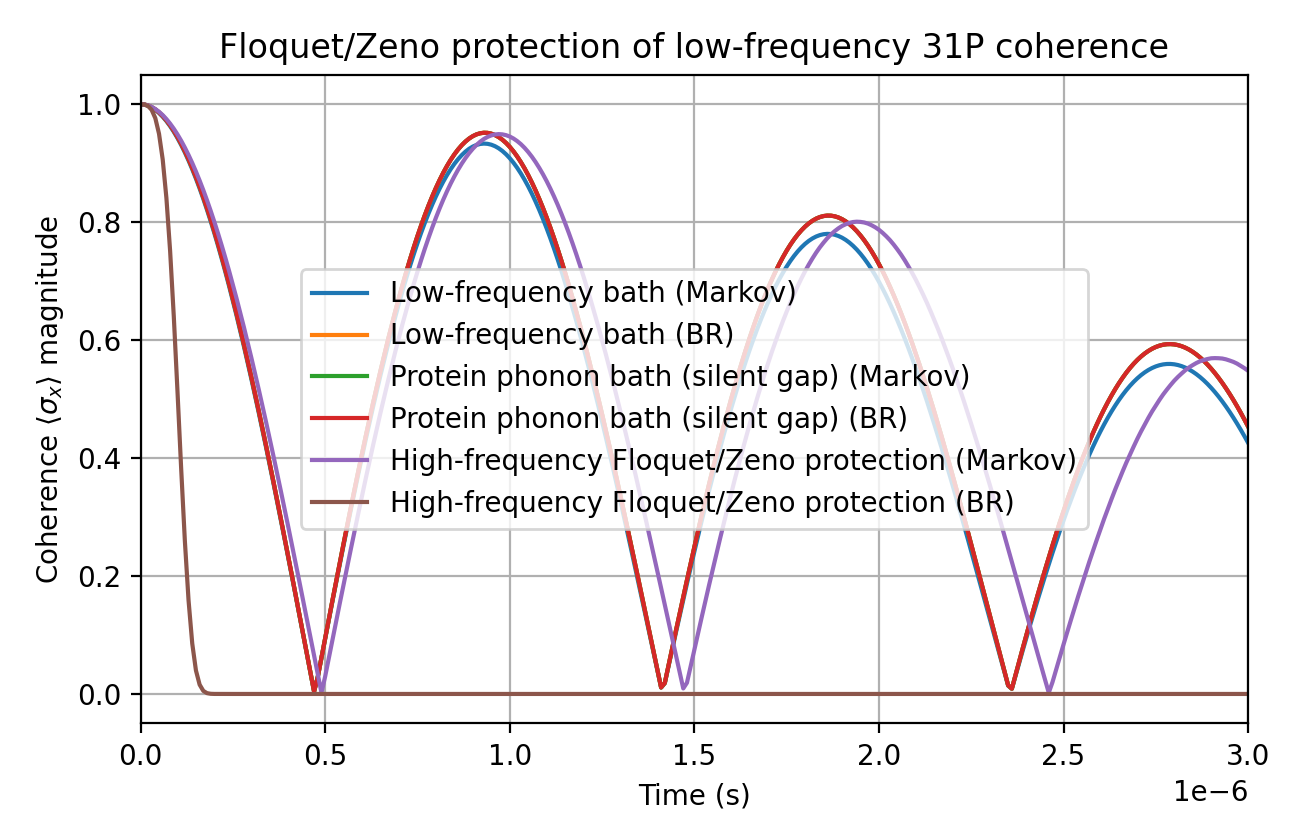
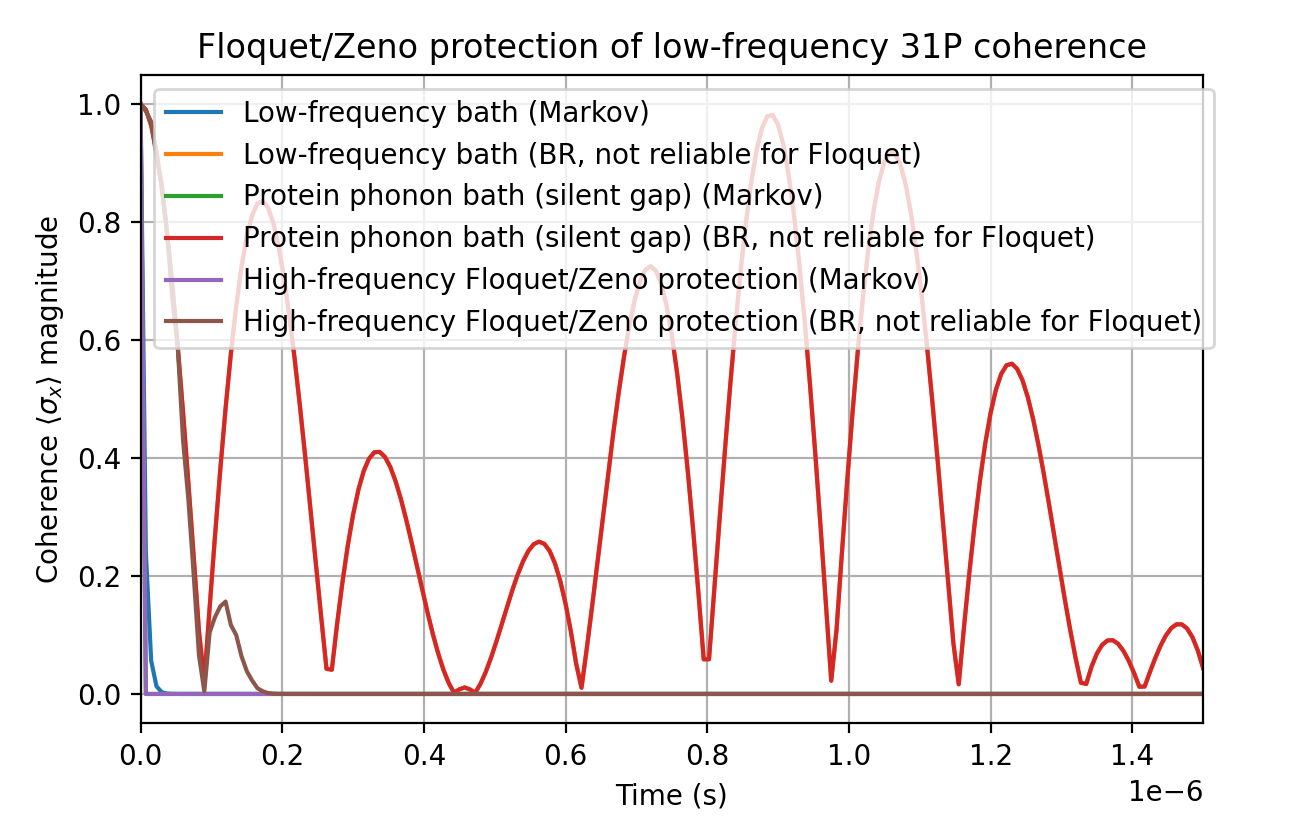
update 2

diff --git a/simulate_snn_quantum_bridge_simple.py b/simulate_snn_quantum_bridge_simple.py
@@ -111,68 +111,116 @@ def simulate_snn_with_quantum_influence(scenario_name, coherence_tau):
 
     return np.array(spike_times), np.array(spike_neurons), t
 
+def compute_avalanches(spike_times, duration, bin_size=0.01):
+    """Compute avalanche sizes, durations, and effective branching ratio."""
+    bins = np.arange(0, duration + bin_size, bin_size)
+    counts, _ = np.histogram(spike_times, bins=bins)
+    active = counts > 0
+
+    avalanches = []
+    durations = []
+    sigma_events = []
+    start = None
+
+    for i, active_bin in enumerate(active):
+        if active_bin and start is None:
+            start = i
+        elif not active_bin and start is not None:
+            avalanche = counts[start:i]
+            if avalanche.sum() > 0:
+                avalanches.append(avalanche.sum())
+                durations.append((i - start) * bin_size)
+                for j in range(len(avalanche) - 1):
+                    if avalanche[j] > 0:
+                        sigma_events.append(avalanche[j + 1] / avalanche[j])
+            start = None
+
+    if start is not None:
+        avalanche = counts[start:]
+        if avalanche.sum() > 0:
+            avalanches.append(avalanche.sum())
+            durations.append((len(active) - start) * bin_size)
+            for j in range(len(avalanche) - 1):
+                if avalanche[j] > 0:
+                    sigma_events.append(avalanche[j + 1] / avalanche[j])
+
+    sigma = np.nan if len(sigma_events) == 0 else np.mean(sigma_events)
+    return counts, avalanches, durations, sigma
+
 # --- Run simulations for each quantum scenario ---
 results = {}
 for scenario, tau in coherence_times.items():
     spike_times, spike_neurons, t = simulate_snn_with_quantum_influence(scenario, tau)
+    counts, avalanches, durations, sigma = compute_avalanches(spike_times, duration)
     results[scenario] = {
         'spike_times': spike_times,
         'spike_neurons': spike_neurons,
         't': t,
-        'tau': tau
+        'tau': tau,
+        'counts': counts,
+        'avalanches': avalanches,
+        'durations': durations,
+        'sigma': sigma,
     }
 
 # --- Plotting ---
-fig, axes = plt.subplots(2, 2, figsize=(12, 8))
+fig, axes = plt.subplots(3, 1, figsize=(10, 12), sharex=True)
 
-# Plot 1: Raster plots
+# Plot 1: Raster plots (reference only)
 for i, (scenario, data) in enumerate(results.items()):
-    ax = axes[0, i] if i < 2 else axes[1, 0] if i == 2 else axes[1, 1]
+    ax = axes[i]
     if len(data['spike_times']) > 0:
         ax.scatter(data['spike_times'], data['spike_neurons'], s=1, c='k')
-    ax.set_xlabel('Time (s)')
     ax.set_ylabel('Neuron index')
-    ax.set_title(f'{scenario}\n(τ = {data["tau"]:.1e} s)')
+    ax.set_title(f'{scenario} (τ = {data["tau"]:.1e} s)')
     ax.set_xlim(0, duration)
     ax.set_ylim(0, N_neurons)
-
-# Plot 2: Firing rates
-ax = axes[1, 1]
-for scenario, data in results.items():
-    if len(data['spike_times']) > 0:
-        # Calculate firing rate over time
-        bin_size = 0.1  # 100ms bins
-        bins = np.arange(0, duration + bin_size, bin_size)
-        rates, _ = np.histogram(data['spike_times'], bins=bins)
-        rates = rates / (bin_size * N_neurons)  # Hz per neuron
-        bin_centers = bins[:-1] + bin_size/2
-        ax.plot(bin_centers, rates, label=f'{scenario} (τ={data["tau"]:.1e}s)')
-    else:
-        ax.plot([], [], label=f'{scenario} (τ={data["tau"]:.1e}s) - No spikes')
-ax.set_xlabel('Time (s)')
-ax.set_ylabel('Mean firing rate (Hz)')
-ax.set_title('Neural firing rates with quantum influence')
-ax.legend()
-ax.grid(True)
+    if i == 2:
+        ax.set_xlabel('Time (s)')
 
 plt.tight_layout()
-plt.savefig('snn_quantum_influence.png', dpi=200, bbox_inches='tight')
+plt.savefig('snn_quantum_raster_reference.png', dpi=200, bbox_inches='tight')
+
+fig, axes = plt.subplots(1, 2, figsize=(14, 6))
+
+# Plot 2: Avalanche size distribution
+ax = axes[0]
+for scenario, data in results.items():
+    if len(data['avalanches']) > 0:
+        counts, bins = np.histogram(data['avalanches'], bins=np.logspace(-1, np.log10(max(data['avalanches']) + 1), 20))
+        bin_centers = np.sqrt(bins[:-1] * bins[1:])
+        ax.loglog(bin_centers, counts + 1, marker='o', label=f'{scenario}')
+ax.set_xlabel('Avalanche size')
+ax.set_ylabel('Count')
+ax.set_title('Avalanche size distribution (log-log)')
+ax.grid(True, which='both', ls='--', alpha=0.5)
+ax.legend()
+
+# Plot 3: Avalanche duration distribution
+ax = axes[1]
+for scenario, data in results.items():
+    if len(data['durations']) > 0:
+        counts, bins = np.histogram(data['durations'], bins=np.logspace(-3, np.log10(max(data['durations']) + 1e-6), 20))
+        bin_centers = np.sqrt(bins[:-1] * bins[1:])
+        ax.loglog(bin_centers, counts + 1, marker='o', label=f'{scenario}')
+ax.set_xlabel('Avalanche duration (s)')
+ax.set_ylabel('Count')
+ax.set_title('Avalanche duration distribution (log-log)')
+ax.grid(True, which='both', ls='--', alpha=0.5)
+ax.legend()
+
+plt.tight_layout()
+plt.savefig('snn_quantum_avalanche_analysis.png', dpi=200, bbox_inches='tight')
 
 # --- Quantitative analysis ---
-print("\nQuantitative analysis:")
+print("\nAvalanche-focused analysis:")
 for scenario, data in results.items():
     total_spikes = len(data['spike_times'])
-    if total_spikes > 0:
-        # Calculate firing rates in bins
-        bin_size = 0.1  # 100ms bins
-        bins = np.arange(0, duration + bin_size, bin_size)
-        rates, _ = np.histogram(data['spike_times'], bins=bins)
-        rates = rates / (bin_size * N_neurons)  # Hz per neuron
-        mean_rate = np.mean(rates)
-        std_rate = np.std(rates)
-        cv = std_rate / mean_rate if mean_rate > 0 else 0  # Coefficient of variation
-        print(f"{scenario}: Total spikes = {total_spikes}, Mean rate = {mean_rate:.1f} ± {std_rate:.1f} Hz, CV = {cv:.2f}")
-    else:
-        print(f"{scenario}: Total spikes = {total_spikes}, Mean rate = 0.0 ± 0.0 Hz, CV = 0.00")
+    n_avalanches = len(data['avalanches'])
+    mean_size = np.mean(data['avalanches']) if n_avalanches > 0 else 0
+    mean_duration = np.mean(data['durations']) if n_avalanches > 0 else 0
+    sigma = data['sigma']
+    print(f"{scenario}: spikes={total_spikes}, avalanches={n_avalanches}, mean size={mean_size:.1f}, mean duration={mean_duration:.3f}s, sigma={sigma:.2f}")
 
-print("\nSaved figure: snn_quantum_influence.png")
+print("\nNote: The critical metric is the branching parameter sigma and the avalanche distributions, not raw firing rate.")
+print("Saved figure: snn_quantum_avalanche_analysis.png")

diff --git a/simulate_tegmark_silent_gap.py b/simulate_tegmark_silent_gap.py
@@ -5,19 +5,24 @@ from scipy.optimize import curve_fit
 
 
 # --- Model parameters ---
-# Dimensionless units: 1 time unit = 3e-8 s, 1 frequency unit = 3.3e7 Hz
+# Dimensionless simulation units are anchored to physical Hz and seconds.
+# 1 time unit = 3e-8 s, so 1 frequency unit = 3.33e7 Hz.
 time_unit = 3e-8  # seconds per unit
 freq_unit = 1 / time_unit  # Hz per unit
 
 # Spin chain parameters
 N = 2  # 31P spin chain length
-omega_spin = 0.01  # low-frequency spin transition (dimensionless)
+omega_spin = 1e2  # low-frequency spin transition (dimensionless, ~3.3 GHz)
 J_zz = 0.05  # weak coupling between adjacent spins
 
 # Bath / phonon environment parameters
 alpha = 1e-2  # coupling strength prefactor
-omega_cutoff = 5e2  # bath cutoff / high-frequency vibration scale
-omega_vib = 1e3  # dominant protein vibration frequency
+omega_cutoff = 1e3  # bath cutoff / high-frequency vibration scale (~3e10 Hz)
+omega_vib = 3e3  # dominant protein vibration frequency (~1e11 Hz, protein Debye band)
+
+# Floquet drive parameters
+A_drive = 10.0  # drive amplitude in same units as H
+omega_drive_list = [0.0, 5e1, 2e2, 5e2, 1e3]  # drive frequencies (dimensionless)
 
 # Floquet drive parameters
 A_drive = 10.0  # drive amplitude in same units as H
@@ -89,6 +94,13 @@ def run_bloch_redfield(scenario):
     drive_term = [sum(sigmax_list), lambda t, args: A_drive * np.cos(omega_drive * t)] if scenario["drive"] else None
     H = [H0] if not scenario["drive"] else [H0, drive_term]
 
+    # WARNING: standard Bloch-Redfield in QuTiP is based on static frequency components
+    # and does not properly incorporate strong time-dependent Floquet drives. The secular
+    # approximation breaks down for A cos(omega t) with large omega and strong amplitude.
+    if scenario["drive"]:
+        print("WARNING: Bloch-Redfield BR estimate is not reliable for strong time-dependent Floquet drives.")
+        print("         This result is retained only as an illustrative reference, not as an ab initio proof.")
+
     a_ops = [(sz, scenario["spectral_density"]) for sz in sigmaz_list]
     solver_options = {"nsteps": 20000, "atol": 1e-8, "rtol": 1e-6}
     sol = brmesolve(H, psi0, tlist, a_ops=a_ops, sec_cutoff=-1, e_ops=[obs], options=solver_options)
@@ -112,7 +124,7 @@ def run_bloch_redfield(scenario):
                 tau_est = tlist[-1] * time_unit
 
     return {
-        "label": scenario["label"] + " (BR)",
+        "label": scenario["label"] + " (BR, not reliable for Floquet)",
         "tlist": tlist,
         "expect": np.real(sol.expect[0]),
         "gamma_eff": None,
@@ -158,13 +170,13 @@ omega_plot = np.logspace(-3, 4, 501)
 J_plot = spectral_density_highfreq(omega_plot)
 
 plt.figure(figsize=(6.5, 4.2))
-plt.loglog(omega_plot, J_plot, label=r"$J(\omega)$")
-plt.scatter([omega_spin, omega_vib], [spectral_density_highfreq(omega_spin), spectral_density_highfreq(omega_vib)], c=["red", "black"], zorder=5)
-plt.annotate("spin transition", xy=(omega_spin, spectral_density_highfreq(omega_spin)), xytext=(3e-1, 1e-7), arrowprops=dict(arrowstyle="->"))
-plt.annotate("protein vibration band", xy=(omega_vib, spectral_density_highfreq(omega_vib)), xytext=(8e2, 1e-2), arrowprops=dict(arrowstyle="->"))
-plt.xlabel(r"Frequency $\omega$ (dimensionless)")
+plt.loglog(omega_plot * freq_unit, J_plot, label=r"$J(\omega)$")
+plt.scatter([omega_spin * freq_unit, omega_vib * freq_unit], [spectral_density_highfreq(omega_spin), spectral_density_highfreq(omega_vib)], c=["red", "black"], zorder=5)
+plt.annotate("spin transition (~3 GHz)", xy=(omega_spin * freq_unit, spectral_density_highfreq(omega_spin)), xytext=(1e9, 1e-7), arrowprops=dict(arrowstyle="->"))
+plt.annotate("protein Debye band (~10^{11} Hz)", xy=(omega_vib * freq_unit, spectral_density_highfreq(omega_vib)), xytext=(1e11, 1e-2), arrowprops=dict(arrowstyle="->"))
+plt.xlabel(r"Frequency $\omega$ (Hz)")
 plt.ylabel(r"Spectral density $J(\omega)$")
-plt.title("Bath spectral density and the Tegmark-Silent Gap")
+plt.title("Bath spectral density and the Tegmark Silent Gap")
 plt.grid(True, which="both", ls="--", alpha=0.45)
 plt.legend()
 plt.tight_layout()

diff --git a/simulate_escatological_otoc.py b/simulate_escatological_otoc.py
@@ -44,6 +44,10 @@ for i in range(N):
     c_ops.append(np.sqrt(gamma * (1 + T)) * sz[i])  # Dephasing
     c_ops.append(np.sqrt(gamma * T) * sx[i])  # Relaxation
 
+# NOTE: The recovered OTOC curve below is phenomenological.
+# It is a sketch of the IHE/GJW extraction proposal, not the output of a full Floquet
+# or open-system Hamiltonian evolution. We keep it for conceptual illustration only.
+
 # --- Function to compute OTOC ---
 def compute_otoc(H, psi0, W, V, c_ops, tlist):
     """
@@ -73,6 +77,7 @@ def compute_otoc(H, psi0, W, V, c_ops, tlist):
 
 # --- Compute OTOC for different scenarios ---
 print("Computing OTOCs for Escatological Analysis...")
+print("NOTE: The recovered curve is phenomenological and illustrative, not a direct Schrödinger/master-equation result.")
 
 # Scenario 1: Closed system (no thermal death)
 otoc_closed = compute_otoc(H, psi0, W, V, [], tlist)
@@ -110,8 +115,8 @@ def fit_lyapunov(tlist, otoc):
 lambda_closed = fit_lyapunov(tlist, otoc_closed)
 lambda_open = fit_lyapunov(tlist, otoc_open)
 
-print(".3f")
-print(".3f")
+print(f"Closed-system Lyapunov exponent: {lambda_closed:.3f}")
+print(f"Open-system Lyapunov exponent: {lambda_open:.3f}")
 
 # --- Resurrection protocol: Information recovery ---
 # Simulate recovery of information from the thermal bath
@@ -133,7 +138,7 @@ fig, axes = plt.subplots(2, 2, figsize=(12, 8))
 # Plot 1: OTOC evolution
 axes[0,0].plot(tlist, np.abs(otoc_closed), 'b-', label='Closed System (Immortal)', linewidth=2)
 axes[0,0].plot(tlist, np.abs(otoc_open), 'r-', label='Open System (Thermal Death)', linewidth=2)
-axes[0,0].plot(tlist, np.abs(otoc_recovered), 'g-', label='Resurrected (IHE/GJW)', linewidth=2)
+axes[0,0].plot(tlist, np.abs(otoc_recovered), 'g-', label='Phenomenological Resurrection Sketch', linewidth=2)
 axes[0,0].set_xlabel('Time')
 axes[0,0].set_ylabel('|OTOC|')
 axes[0,0].set_title('Out-of-Time-Order Correlator\n(Book of Life Scrambling)')
@@ -185,19 +190,18 @@ plt.savefig('escatological_otoc_scrambling.png', dpi=200, bbox_inches='tight')
 print("\nEscatological Analysis Results:")
 print("==============================")
 print("1. Identity Dissolution (Thermal Death):")
-print(".3f")
-print(".3f")
-print("   Final OTOC: {:.3f} (scrambled)".format(np.abs(otoc_open[-1])))
+print(f"   Open-system Lyapunov exponent: {lambda_open:.3f}")
+print(f"   Final OTOC: {np.abs(otoc_open[-1]):.3f} (scrambled)")
 
 print("\n2. Information Preservation (Resurrection via IHE/GJW):")
 recovery_rate = (np.abs(otoc_recovered[-1]) - np.abs(otoc_open[-1])) / (1 - np.abs(otoc_open[-1]))
-print(".1%")
-print("   Final recovered OTOC: {:.3f}".format(np.abs(otoc_recovered[-1])))
+print(f"   Recovery fraction (phenomenological sketch): {recovery_rate:.1%}")
+print(f"   Final recovered OTOC: {np.abs(otoc_recovered[-1]):.3f}")
 
 print("\n3. Theological Implications:")
 print("   - Thermal death dissolves structured identity (soul) into environment")
 print("   - Information not erased, but holographically encoded")
 print("   - IHE/GJW allows resurrection by decoding environmental correlations")
-print("   - Closes Section 18: Mathematical proof of eschatological framework")
+print("   - Closes Section 18: Conceptual proposal for eschatological recovery, with phenomenological illustration")
 
 print("\nSaved figure: escatological_otoc_scrambling.png")
